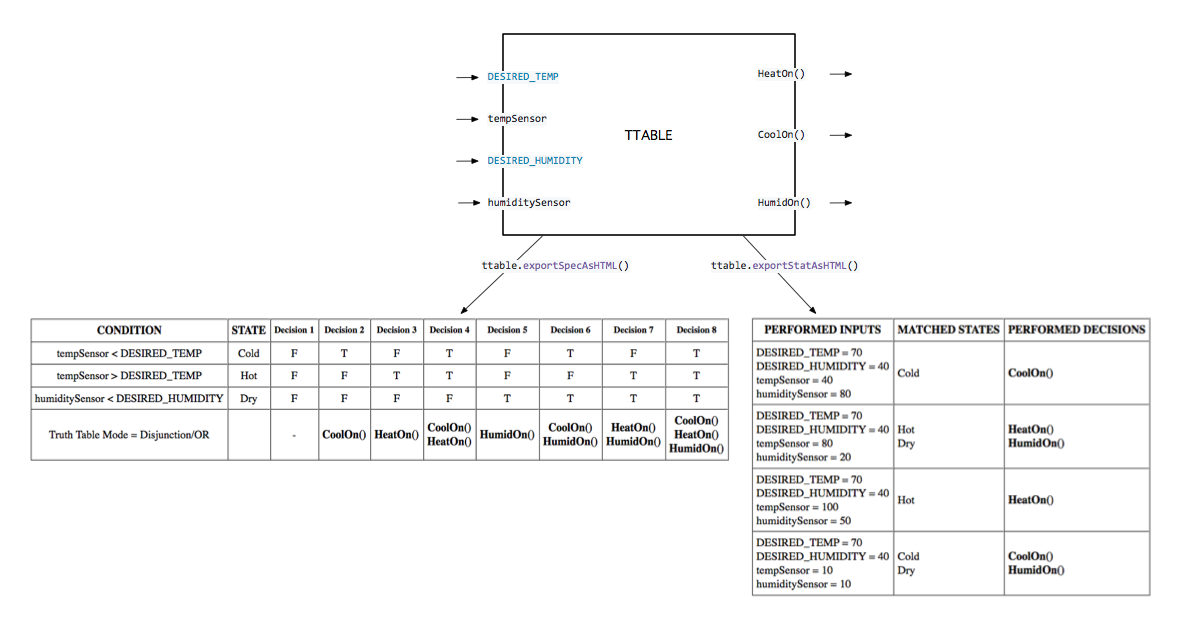
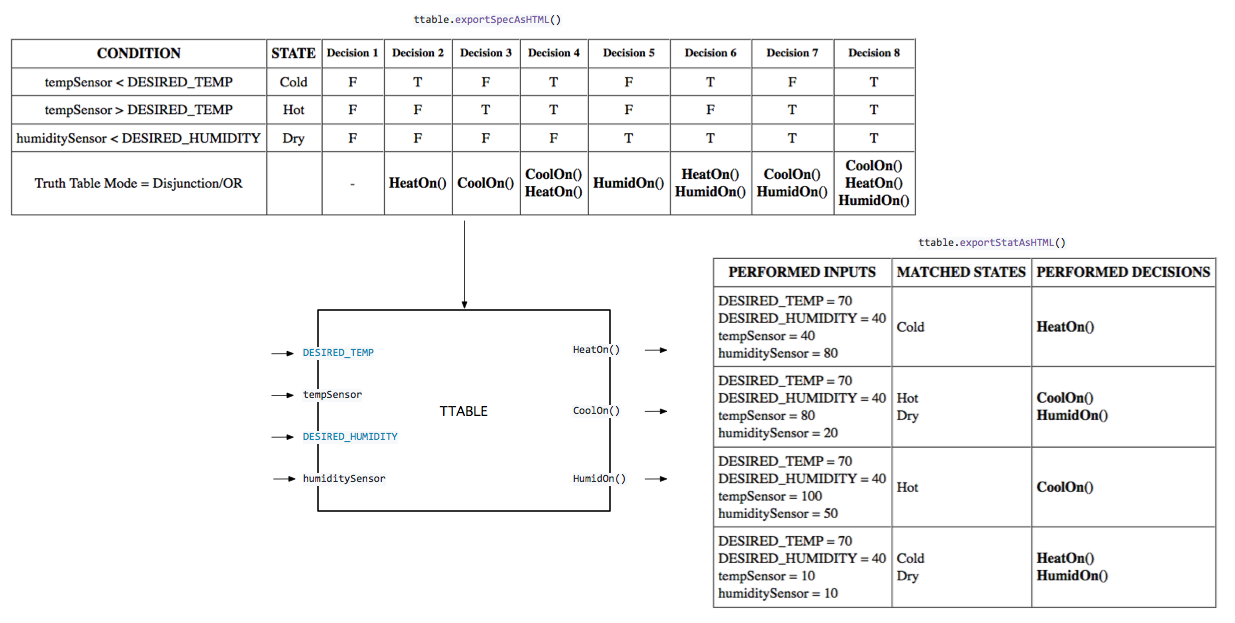
add picture

Changed region(s): [[0.0, 0.0, 1.0, 0.9791], [0.0306, 0.2754, 0.2141, 0.306]]

diff --git a/examples/climate-controller_spec.html b/examples/climate-controller_spec.html
@@ -1,1 +1,1 @@
-<table BORDER=1 CELLSPACING=0 CELLPADDING=5 style="white-space:nowrap;" class="undefined"><thead><tr><th align="center">CONDITION</th><th align="center">STATE</th><th align="center"><small>Decision 1</small></th><th align="center"><small>Decision 2</small></th><th align="center"><small>Decision 3</small></th><th align="center"><small>Decision 4</small></th><th align="center"><small>Decision 5</small></th><th align="center"><small>Decision 6</small></th><th align="center"><small>Decision 7</small></th><th align="center"><small>Decision 8</small></th></tr></thead><tbody><tr><td align="center">tempSensor < DESIRED_TEMP</td><td align="center">Cold</td><td align="center">F</td><td align="center">T</td><td align="center">F</td><td align="center">T</td><td align="center">F</td><td align="center">T</td><td align="center">F</td><td align="center">T</td></tr><tr><td align="center">tempSensor > DESIRED_TEMP</td><td align="center">Hot</td><td align="center">F</td><td align="center">F</td><td align="center">T</td><td align="center">T</td><td align="center">F</td><td align="center">F</td><td align="center">T</td><td align="center">T</td></tr><tr><td align="center">humiditySensor < DESIRED_HUMIDITY</td><td align="center">Dry</td><td align="center">F</td><td align="center">F</td><td align="center">F</td><td align="center">F</td><td align="center">T</td><td align="center">T</td><td align="center">T</td><td align="center">T</td></tr><tr><td align="center">Truth Table Mode = Disjunction/OR</td><td></td><td align="center">-</td><td align="center"><strong>CoolOn()<br></strong></td><td align="center"><strong>HeatOn()<br></strong></td><td align="center"><strong>CoolOn()<br>HeatOn()<br></strong></td><td align="center"><strong>HumidOn()<br></strong></td><td align="center"><strong>CoolOn()<br>HumidOn()<br></strong></td><td align="center"><strong>HeatOn()<br>HumidOn()<br></strong></td><td align="center"><strong>CoolOn()<br>HeatOn()<br>HumidOn()<br></strong></td></tr></tbody></table>
+<table BORDER=1 CELLSPACING=0 CELLPADDING=5 style="white-space:nowrap;" class="undefined"><thead><tr><th align="center">CONDITION</th><th align="center">STATE</th><th align="center"><small>Decision 1</small></th><th align="center"><small>Decision 2</small></th><th align="center"><small>Decision 3</small></th><th align="center"><small>Decision 4</small></th><th align="center"><small>Decision 5</small></th><th align="center"><small>Decision 6</small></th><th align="center"><small>Decision 7</small></th><th align="center"><small>Decision 8</small></th></tr></thead><tbody><tr><td align="center">tempSensor < DESIRED_TEMP</td><td align="center">Cold</td><td align="center">F</td><td align="center">T</td><td align="center">F</td><td align="center">T</td><td align="center">F</td><td align="center">T</td><td align="center">F</td><td align="center">T</td></tr><tr><td align="center">tempSensor > DESIRED_TEMP</td><td align="center">Hot</td><td align="center">F</td><td align="center">F</td><td align="center">T</td><td align="center">T</td><td align="center">F</td><td align="center">F</td><td align="center">T</td><td align="center">T</td></tr><tr><td align="center">humiditySensor < DESIRED_HUMIDITY</td><td align="center">Dry</td><td align="center">F</td><td align="center">F</td><td align="center">F</td><td align="center">F</td><td align="center">T</td><td align="center">T</td><td align="center">T</td><td align="center">T</td></tr><tr><td align="center">Truth Table Mode = Disjunction/OR</td><td></td><td align="center">-</td><td align="center"><strong>HeatOn()<br></strong></td><td align="center"><strong>CoolOn()<br></strong></td><td align="center"><strong>CoolOn()<br>HeatOn()<br></strong></td><td align="center"><strong>HumidOn()<br></strong></td><td align="center"><strong>HeatOn()<br>HumidOn()<br></strong></td><td align="center"><strong>CoolOn()<br>HumidOn()<br></strong></td><td align="center"><strong>CoolOn()<br>HeatOn()<br>HumidOn()<br></strong></td></tr></tbody></table>

diff --git a/examples/climate-controller_statistics.html b/examples/climate-controller_statistics.html
@@ -1,1 +1,1 @@
-<table BORDER=1 CELLSPACING=0 CELLPADDING=5 style="white-space:nowrap;" class="undefined"><thead><tr><th>PERFORMED INPUTS</th><th>MATCHED STATES</th><th>PERFORMED DECISIONS</th></tr></thead><tbody><tr><td>DESIRED_TEMP = 70<br>DESIRED_HUMIDITY = 40<br>tempSensor = 40<br>humiditySensor = 80</td><td>Cold</td><td><b>CoolOn()</b></td></tr><tr><td>DESIRED_TEMP = 70<br>DESIRED_HUMIDITY = 40<br>tempSensor = 80<br>humiditySensor = 20</td><td>Hot<br>Dry</td><td><b>HeatOn()</b><br><b>HumidOn()</b></td></tr><tr><td>DESIRED_TEMP = 70<br>DESIRED_HUMIDITY = 40<br>tempSensor = 100<br>humiditySensor = 50</td><td>Hot</td><td><b>HeatOn()</b></td></tr><tr><td>DESIRED_TEMP = 70<br>DESIRED_HUMIDITY = 40<br>tempSensor = 10<br>humiditySensor = 10</td><td>Cold<br>Dry</td><td><b>CoolOn()</b><br><b>HumidOn()</b></td></tr></tbody></table>
+<table BORDER=1 CELLSPACING=0 CELLPADDING=5 style="white-space:nowrap;" class="undefined"><thead><tr><th>PERFORMED INPUTS</th><th>MATCHED STATES</th><th>PERFORMED DECISIONS</th></tr></thead><tbody><tr><td>DESIRED_TEMP = 70<br>DESIRED_HUMIDITY = 40<br>tempSensor = 40<br>humiditySensor = 80</td><td>Cold</td><td><b>HeatOn()</b></td></tr><tr><td>DESIRED_TEMP = 70<br>DESIRED_HUMIDITY = 40<br>tempSensor = 80<br>humiditySensor = 20</td><td>Hot<br>Dry</td><td><b>CoolOn()</b><br><b>HumidOn()</b></td></tr><tr><td>DESIRED_TEMP = 70<br>DESIRED_HUMIDITY = 40<br>tempSensor = 100<br>humiditySensor = 50</td><td>Hot</td><td><b>CoolOn()</b></td></tr><tr><td>DESIRED_TEMP = 70<br>DESIRED_HUMIDITY = 40<br>tempSensor = 10<br>humiditySensor = 10</td><td>Cold<br>Dry</td><td><b>HeatOn()</b><br><b>HumidOn()</b></td></tr></tbody></table>

diff --git a/examples/climate-controller.js b/examples/climate-controller.js
@@ -38,8 +38,8 @@ ttable
     .setCondition({state: "Cold", equation: "tempSensor < DESIRED_TEMP"})
     .setCondition({state: "Hot", equation: "tempSensor > DESIRED_TEMP"})
     .setCondition({state: "Dry", equation: "humiditySensor < DESIRED_HUMIDITY"})
-    .setDecision({run: [CoolOn], if: ["Cold"]})
-    .setDecision({run: [HeatOn], if: ["Hot"]})
+    .setDecision({run: [CoolOn], if: ["Hot"]})
+    .setDecision({run: [HeatOn], if: ["Cold"]})
     .setDecision({run: [HumidOn],if: ["Dry"]})
 
 fs.writeFileSync(__dirname + '/climate-controller_spec.html', ttable.exportSpecAsHTML(), 'utf-8')

diff --git a/README.md b/README.md
@@ -23,7 +23,7 @@ const TTABLE = require('executable-truth-table');
 const ttable = new TTABLE()
 ```
 
-Set evaluation mode of truth table
+Choose evaluation mode of truth table
 ```javascript
 ttable.disjunctionMode() // Use OR operation in Truth Table
 ttable.conjunctionMode() // Use AND operation in Truth Table
@@ -101,8 +101,8 @@ ttable
     .setCondition({state: "Cold", equation: "tempSensor < DESIRED_TEMP"})
     .setCondition({state: "Hot", equation: "tempSensor > DESIRED_TEMP"})
     .setCondition({state: "Dry", equation: "humiditySensor < DESIRED_HUMIDITY"})
-    .setDecision({run: [CoolOn], if: ["Cold"]})
-    .setDecision({run: [HeatOn], if: ["Hot"]})
+    .setDecision({run: [CoolOn], if: ["Hot"]})
+    .setDecision({run: [HeatOn], if: ["Cold"]})
     .setDecision({run: [HumidOn],if: ["Dry"]})
 
 fs.writeFileSync(__dirname + '/climate-controller_spec.html', ttable.exportSpecAsHTML(), 'utf-8')
@@ -123,48 +123,48 @@ Output
 ```bash
 $ node climate-controller
   ttable setCondition(mode=Disjunction/OR): { state: 'Cold', equation: 'tempSensor < DESIRED_TEMP' } +0ms
-  ttable setCondition(mode=Disjunction/OR): { state: 'Hot', equation: 'tempSensor > DESIRED_TEMP' } +7ms
+  ttable setCondition(mode=Disjunction/OR): { state: 'Hot', equation: 'tempSensor > DESIRED_TEMP' } +6ms
   ttable setCondition(mode=Disjunction/OR): { state: 'Dry', equation: 'humiditySensor < DESIRED_HUMIDITY' } +2ms
-  ttable setDecision(mode=Disjunction/OR): FFT run [ [Function: CoolOn] ] if Cold +2ms
-  ttable setDecision(mode=Disjunction/OR): FTF run [ [Function: HeatOn] ] if Hot +69ms
+  ttable setDecision(mode=Disjunction/OR): FTF run [ [Function: CoolOn] ] if Hot +2ms
+  ttable setDecision(mode=Disjunction/OR): FFT run [ [Function: HeatOn] ] if Cold +61ms
   ttable setDecision(mode=Disjunction/OR): TFF run [ [Function: HumidOn] ] if Dry +1ms
-  ttable eval() inputs {"DESIRED_TEMP":70,"DESIRED_HUMIDITY":40,"tempSensor":40,"humiditySensor":80} +5ms
-  ttable  T[Cold], equation = tempSensor < DESIRED_TEMP +84ms
-  ttable  F[Hot], equation = tempSensor > DESIRED_TEMP +6ms
-  ttable  F[Dry], equation = humiditySensor < DESIRED_HUMIDITY +0ms
-  ttable  matchedDecisions = [ [Function: CoolOn] ] +0ms
-  ClimateController CoolOn() +0ms
-  ClimateController    startCooler() +1ms
-  ClimateController    stopHeater() +0ms
-  ClimateController    stopHumidifier() +0ms
-  ttable eval() inputs {"DESIRED_TEMP":70,"DESIRED_HUMIDITY":40,"tempSensor":80,"humiditySensor":20} +0ms
-  ttable  F[Cold], equation = tempSensor < DESIRED_TEMP +0ms
-  ttable  T[Hot], equation = tempSensor > DESIRED_TEMP +0ms
-  ttable  T[Dry], equation = humiditySensor < DESIRED_HUMIDITY +1ms
-  ttable  matchedDecisions = [ [Function: HeatOn], [Function: HumidOn] ] +0ms
-  ClimateController HeatOn() +0ms
-  ClimateController    startHeater() +0ms
-  ClimateController    stopCooler() +0ms
-  ClimateController    stopHumidifier() +0ms
-  ClimateController HumidOn() +0ms
-  ClimateController    startHumidifier() +0ms
-  ttable eval() inputs {"DESIRED_TEMP":70,"DESIRED_HUMIDITY":40,"tempSensor":100,"humiditySensor":50} +0ms
-  ttable  F[Cold], equation = tempSensor < DESIRED_TEMP +1ms
-  ttable  T[Hot], equation = tempSensor > DESIRED_TEMP +1ms
+  ttable eval() inputs {"DESIRED_TEMP":70,"DESIRED_HUMIDITY":40,"tempSensor":40,"humiditySensor":80} +4ms
+  ttable  T[Cold], equation = tempSensor < DESIRED_TEMP +95ms
+  ttable  F[Hot], equation = tempSensor > DESIRED_TEMP +8ms
   ttable  F[Dry], equation = humiditySensor < DESIRED_HUMIDITY +0ms
   ttable  matchedDecisions = [ [Function: HeatOn] ] +0ms
   ClimateController HeatOn() +1ms
   ClimateController    startHeater() +0ms
   ClimateController    stopCooler() +0ms
   ClimateController    stopHumidifier() +0ms
-  ttable eval() inputs {"DESIRED_TEMP":70,"DESIRED_HUMIDITY":40,"tempSensor":10,"humiditySensor":10} +0ms
-  ttable  T[Cold], equation = tempSensor < DESIRED_TEMP +0ms
-  ttable  F[Hot], equation = tempSensor > DESIRED_TEMP +0ms
-  ttable  T[Dry], equation = humiditySensor < DESIRED_HUMIDITY +1ms
+  ttable eval() inputs {"DESIRED_TEMP":70,"DESIRED_HUMIDITY":40,"tempSensor":80,"humiditySensor":20} +1ms
+  ttable  F[Cold], equation = tempSensor < DESIRED_TEMP +0ms
+  ttable  T[Hot], equation = tempSensor > DESIRED_TEMP +1ms
+  ttable  T[Dry], equation = humiditySensor < DESIRED_HUMIDITY +0ms
   ttable  matchedDecisions = [ [Function: CoolOn], [Function: HumidOn] ] +0ms
   ClimateController CoolOn() +0ms
   ClimateController    startCooler() +0ms
   ClimateController    stopHeater() +0ms
+  ClimateController    stopHumidifier() +0ms
+  ClimateController HumidOn() +1ms
+  ClimateController    startHumidifier() +0ms
+  ttable eval() inputs {"DESIRED_TEMP":70,"DESIRED_HUMIDITY":40,"tempSensor":100,"humiditySensor":50} +0ms
+  ttable  F[Cold], equation = tempSensor < DESIRED_TEMP +0ms
+  ttable  T[Hot], equation = tempSensor > DESIRED_TEMP +1ms
+  ttable  F[Dry], equation = humiditySensor < DESIRED_HUMIDITY +0ms
+  ttable  matchedDecisions = [ [Function: CoolOn] ] +1ms
+  ClimateController CoolOn() +0ms
+  ClimateController    startCooler() +0ms
+  ClimateController    stopHeater() +0ms
+  ClimateController    stopHumidifier() +0ms
+  ttable eval() inputs {"DESIRED_TEMP":70,"DESIRED_HUMIDITY":40,"tempSensor":10,"humiditySensor":10} +0ms
+  ttable  T[Cold], equation = tempSensor < DESIRED_TEMP +0ms
+  ttable  F[Hot], equation = tempSensor > DESIRED_TEMP +1ms
+  ttable  T[Dry], equation = humiditySensor < DESIRED_HUMIDITY +0ms
+  ttable  matchedDecisions = [ [Function: HeatOn], [Function: HumidOn] ] +0ms
+  ClimateController HeatOn() +0ms
+  ClimateController    startHeater() +0ms
+  ClimateController    stopCooler() +0ms
   ClimateController    stopHumidifier() +0ms
   ClimateController HumidOn() +0ms
   ClimateController    startHumidifier() +0ms
